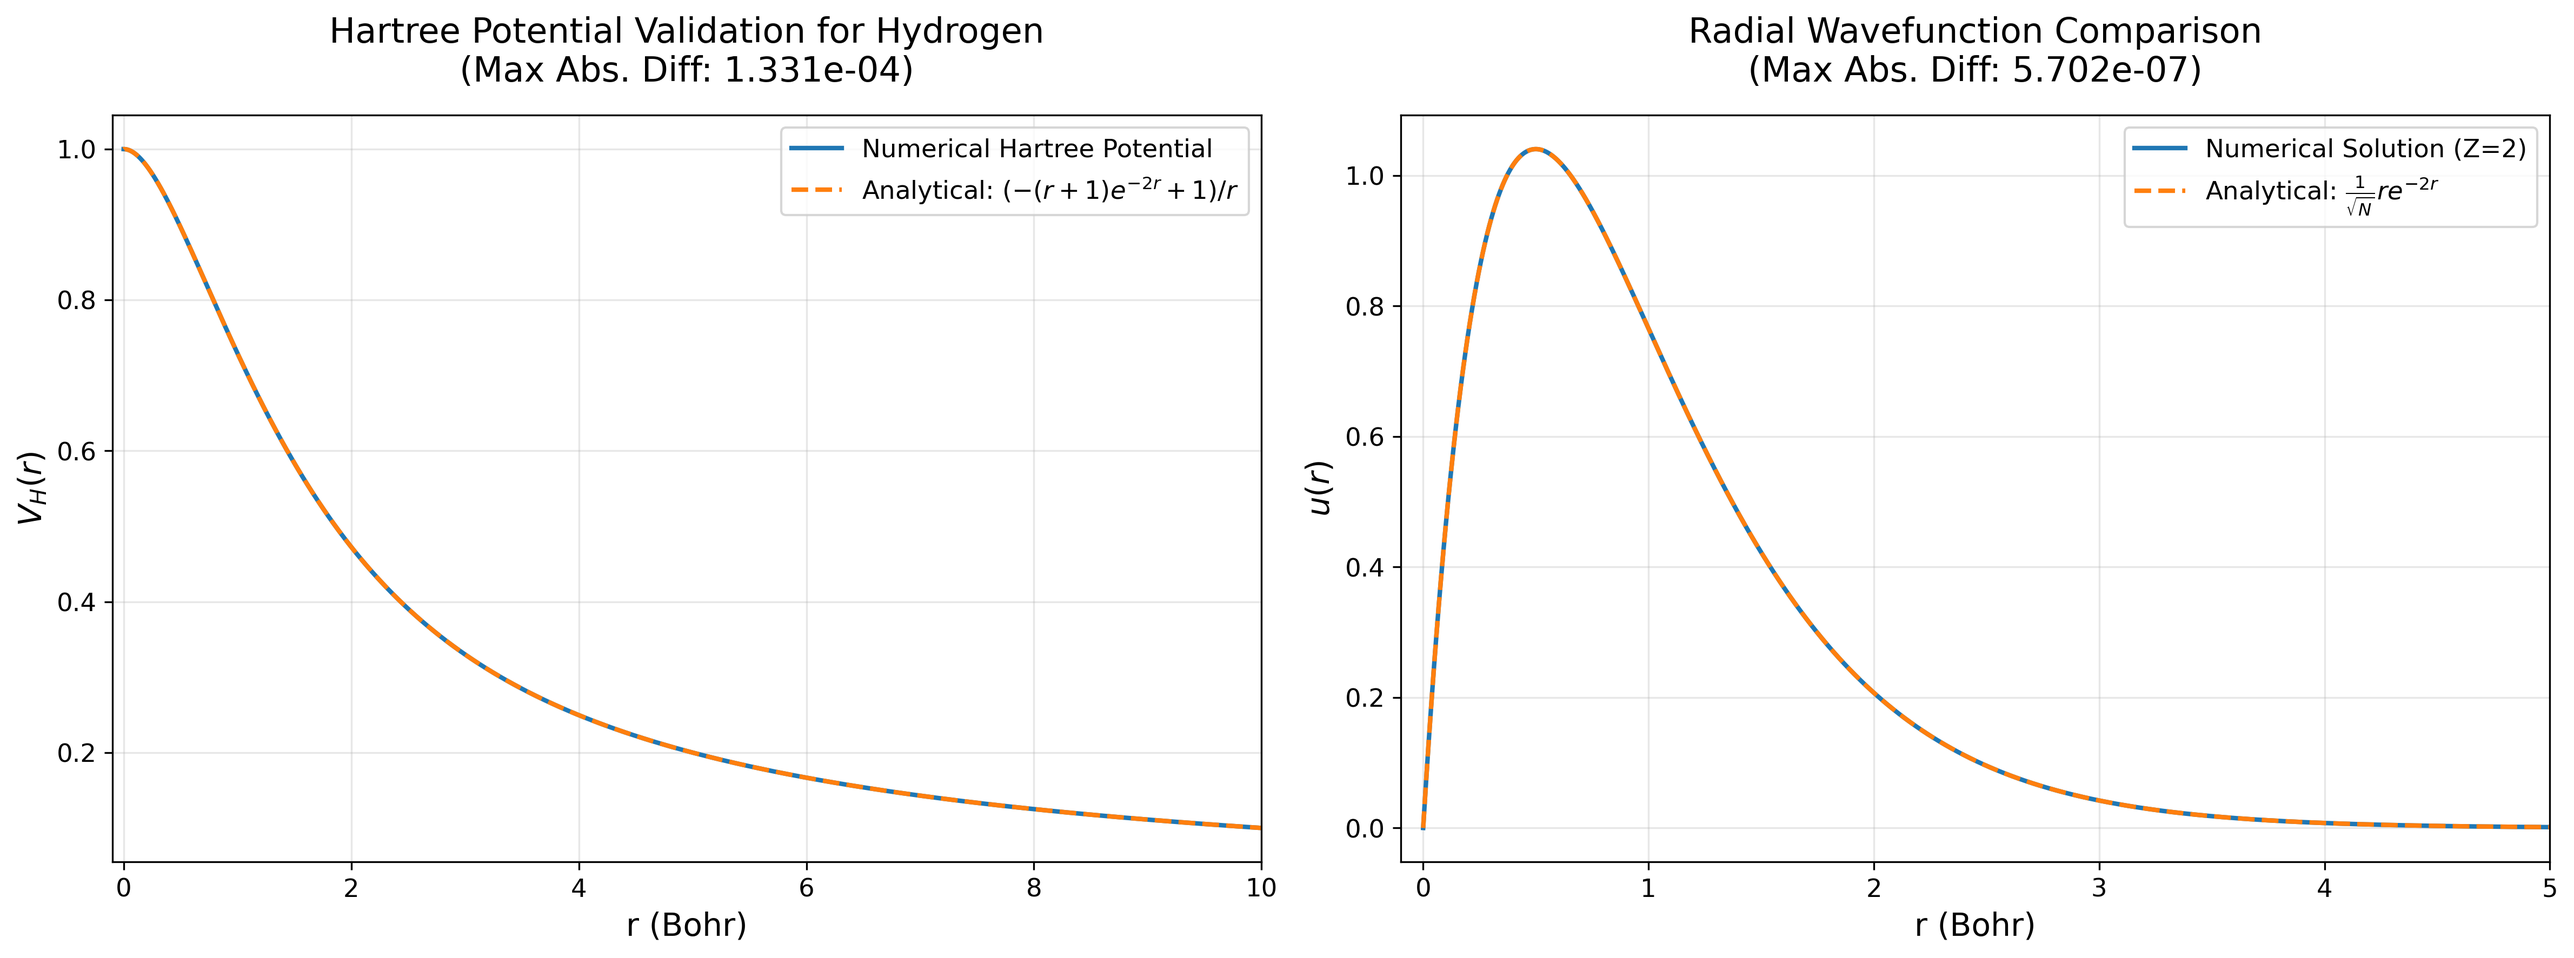
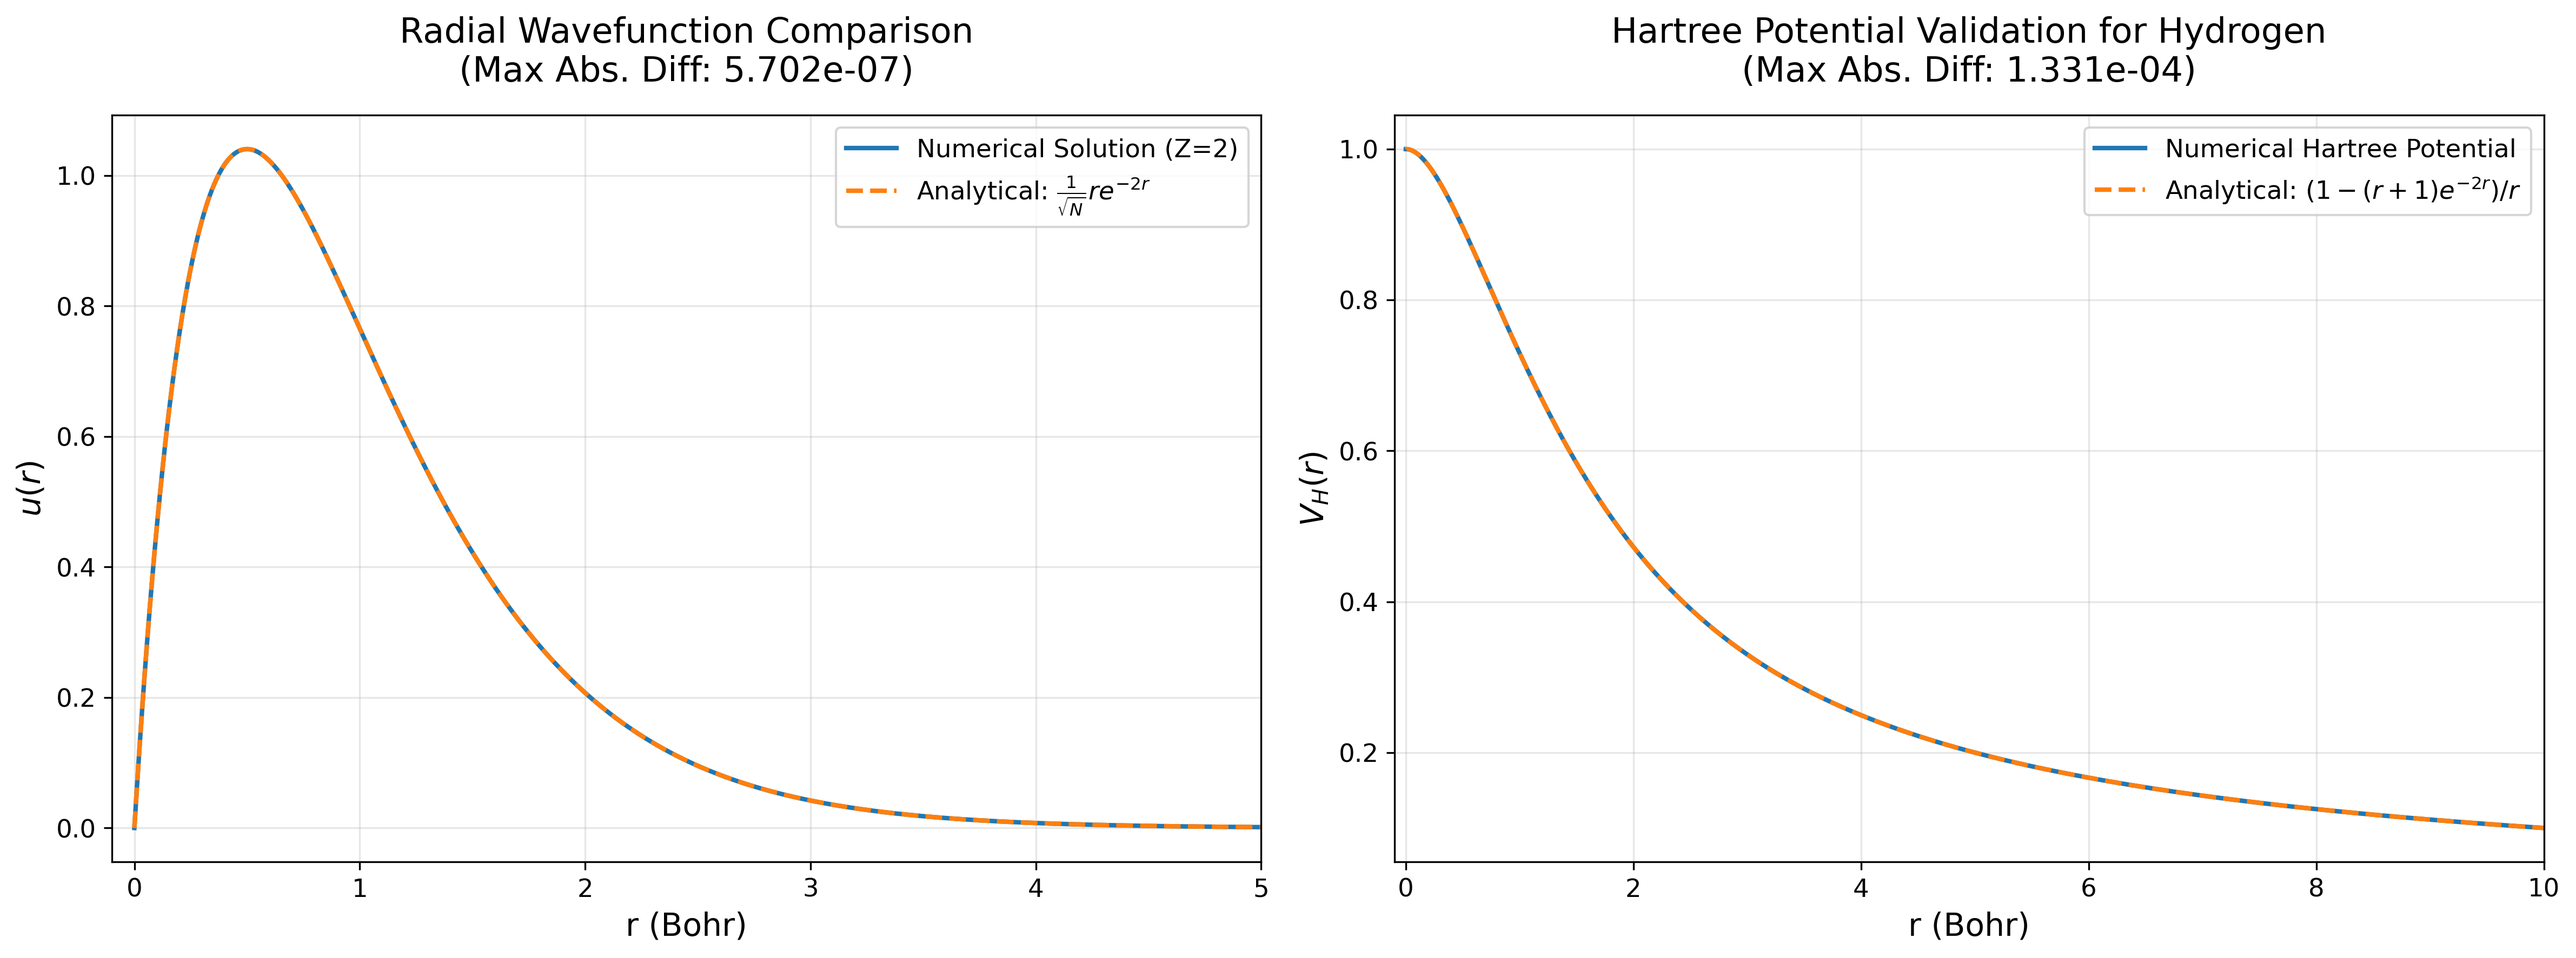
Added validation section in README

diff --git a/physics_validation.py b/physics_validation.py
@@ -38,7 +38,7 @@ if __name__ == "__main__":
     u_hyd, _ = solve_schrodinger(grid, 1, V_eff_0, [-1, 0], 0.1)
     
     
-    fig, (ax1, ax2) = plt.subplots(1, 2, figsize=(16, 6))
+    fig, (ax2, ax1) = plt.subplots(1, 2, figsize=(16, 6))
     
     # ---- LEFT PANEL: HARTREE POTENTIAL COMPARISON ----
     V_H_hyd = get_V_h(u_hyd, grid.r)
@@ -57,7 +57,7 @@ if __name__ == "__main__":
     ax1.plot(
         grid.r, 
         V_H_analytical, 
-        label=r"Analytical: $(-(r+1)e^{-2r} + 1)/r$",
+        label=r"Analytical: $(1-(r+1)e^{-2r})/r$",
         color="tab:orange",
         linestyle="--",
         lw=LINE_WIDTH

diff --git a/README.md b/README.md
@@ -26,7 +26,9 @@ The goal of this project is to implement a **Self-Consistent Field (SCF)** solve
   - [Schrödinger Equation Integration](#schrödinger-equation-integration)
   - [Hartree potential via Poisson equation](#hartree-potential-via-poisson-equation)
   - [Self-interaction handling](#self-interaction-handling)
-  - [Physics validation](#physics-validation)
+- [Code Validation](#code-validation)
+  - [Schrödinger Solver Validation](#schrödinger-solver-validation)
+  - [Poisson Solver Validation](#poisson-solver-validation)
 - [Results](#results)
   - [Total energy and Ionization Energy](#total-energy-and-ionization-energy)
   - [Charge Distribution](#charge-distribution)
@@ -630,8 +632,41 @@ In this scenario, the Hartree term includes the Self-Interaction. The role of th
 
 ---
 
-### Physics validation
+## Code Validation
 
+To ensure the reliability of the numerical solvers the codebase includes a validation analysis that compares the numerical results against known analytical solutions for hydrogen-like systems.
+
+To run the validation script:
+
+```bash
+python physics_validation.py
+```
+
+The script uses the parameter of the grid and bisection form the `config.yaml` and generates a two-panel comparison. Below is displayed an example produced for $r_\text{min}=0$, $r_\text{max}=10$, $h=10^{-3}$ (initial value shipped with the repo):
+
+![Code Validation](physics_validation.png)
+
+### Schrödinger Solver Validation
+
+The left panel tests the function `solve_schrodinger`, providing validation for the Verlet integrator and the bisection algorithm. It solves the radial Schrödinger equation a single-electron system with Z=2.
+
+The resulting numerical probability amplitude u(r) is compared against the exact hydrogenic solution:
+
+$$
+u_\mathrm{exact}\propto r e^{-Zr}
+$$
+
+As shown in the figure, the numerical solution (blue line) overlaps perfectly with the analytical formula (orange dashed line), confirming the correct implementation.
+
+### Poisson Solver Validation
+
+The right panel tests the accuracy of the Poisson solver. It computes the Hartree potential generated by the ground state of Hydrogen atom (using the Helium solver functions with forced Z=1). Then the numerical result is compared with the analytical Hydrogen solution
+
+$$
+V_H(r) = \frac{1}{r} \ [1 - (r+1)e^{-2r}]
+$$
+
+Also in this case the figure show an excellent overlap between the numerical and the analytical solution, validating the Poisson solver.
 
 ## Results
 
